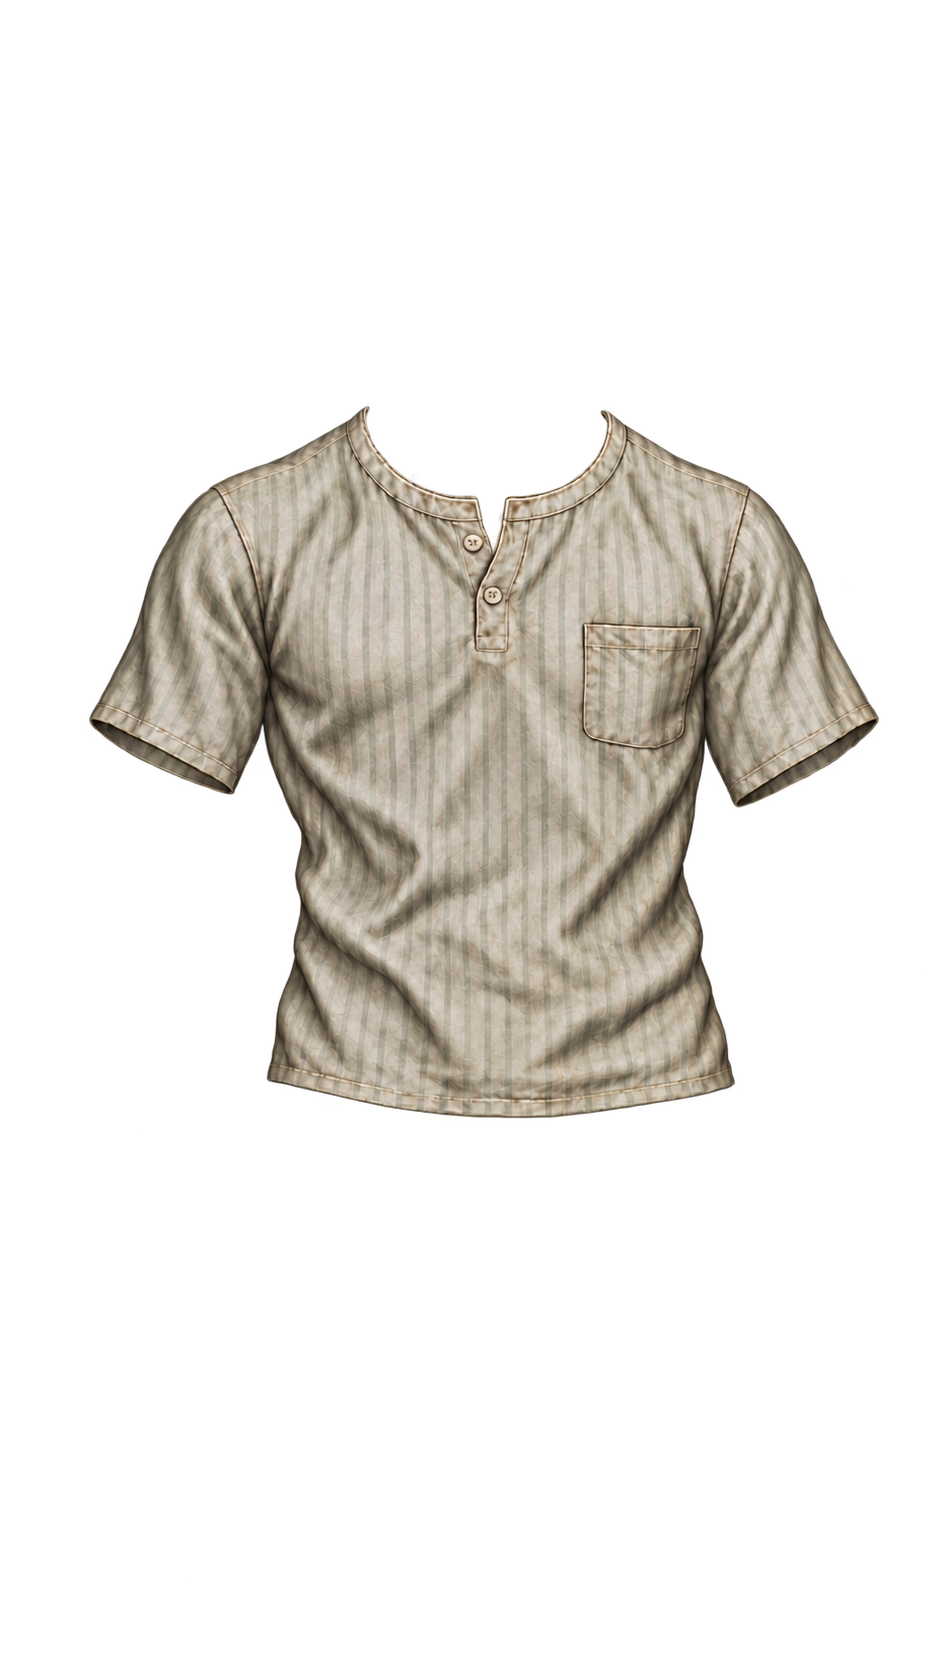
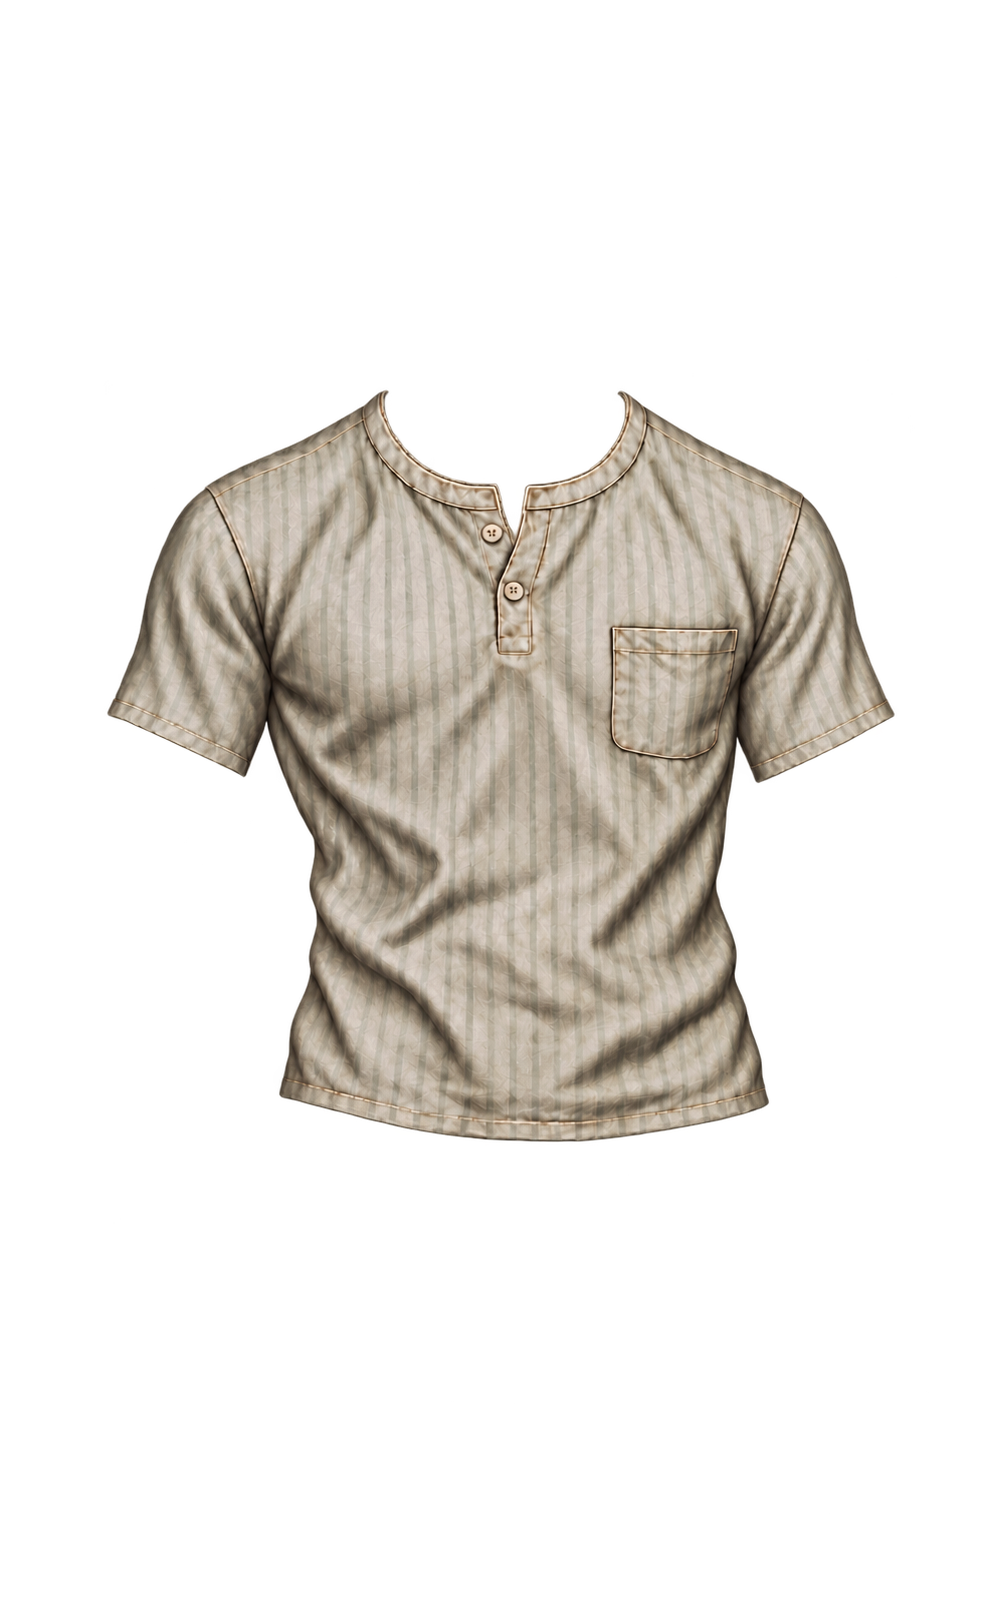
Fix male patient shirt shoulder coverage and remove rear sleeve rims from the front overlay

Changed region(s): [[0.0925, 0.2497, 0.9554, 0.7179]]

diff --git a/art/hospital-shirt.html b/art/hospital-shirt.html
@@ -20,7 +20,7 @@
     .body { display: block; position: absolute; inset: 0; width: 100%; height: 100%; object-fit: contain; }
     /* Only the new garment is registered. Approved bodies remain unchanged. */
     .shirt { position: absolute; object-fit: contain; }
-    [data-gender="male"] .shirt { left: calc(125 / 941 * 100%); top: calc(-24 / 1672 * 100%); width: calc(677.52 / 941 * 100%); height: calc(1203.12 / 1672 * 100%); }
+    [data-gender="male"] .shirt { left: calc(116 / 941 * 100%); top: calc(-16 / 1672 * 100%); width: calc(706.32 / 941 * 100%); height: calc(1153.44 / 1672 * 100%); }
     [data-gender="female"] .shirt { left: calc(145 / 941 * 100%); top: calc(-2 / 1672 * 100%); width: calc(639.88 / 941 * 100%); height: calc(1136.28 / 1672 * 100%); }
     .shadow { position: absolute; bottom: -.5%; left: 14%; width: 72%; height: 4.5%; background: radial-gradient(ellipse,#1b251e55,transparent 73%); }
     .note { font-size: 14px; color: #c9bba6; margin-top: 16px; }
@@ -41,7 +41,7 @@
         <div class="scene"><div class="frame">
           <span class="shadow" aria-hidden="true"></span>
           <img class="body" src="../base_male.png?v=0dec17c1" alt="Затверджена чоловіча модель">
-          <img class="shirt" src="../assets/wardrobe/drafts/hospital_shirt_male.png" alt="Чернетка чоловічої лікарняної сорочки">
+          <img class="shirt" src="../assets/wardrobe/drafts/hospital_shirt_male.png?v=f5b777c7" alt="Чернетка чоловічої лікарняної сорочки">
         </div></div>
       </article>
       <article data-gender="female">

diff --git a/tests/test_game.py b/tests/test_game.py
@@ -25,7 +25,7 @@ class IconAssetTests(unittest.TestCase):
         for gender in ['male','female']:
             with self.subTest(gender=gender),Image.open(ROOT/f'assets/wardrobe/drafts/hospital_shirt_{gender}.png') as image:
                 self.assertEqual(image.format,'PNG')
-                self.assertEqual(image.size,(941,1671))
+                self.assertEqual(image.size,(981,1602) if gender=='male' else (941,1671))
                 self.assertEqual(image.mode,'RGBA')
                 alpha=image.getchannel('A')
                 self.assertEqual(alpha.getextrema(),(0,255))
@@ -767,15 +767,30 @@ class GameTests(unittest.TestCase):
         for gender in ['male','female']:
             article=self.page.locator(f'[data-gender="{gender}"]')
             self.assertEqual(article.locator('.body').evaluate('e=>[e.naturalWidth,e.naturalHeight]'),[941,1672])
-            self.assertEqual(article.locator('.shirt').evaluate('e=>[e.naturalWidth,e.naturalHeight]'),[941,1671])
+            self.assertEqual(article.locator('.shirt').evaluate('e=>[e.naturalWidth,e.naturalHeight]'),[981,1602] if gender=='male' else [941,1671])
             frame=article.locator('.frame').bounding_box()
             self.assertAlmostEqual(frame['width']/frame['height'],941/1672,delta=.001)
             self.assertEqual(article.locator('.shirt').evaluate('e=>getComputedStyle(e).objectFit'),'contain')
+        # Canonical points that used to show bare shoulder or rear cuff fabric.
+        # Project through the actual DOM image boxes, not a copied CSS offset.
+        coverage=self.page.locator('[data-gender="male"]').evaluate('''article=>{
+            const frame=article.querySelector('.frame').getBoundingClientRect();
+            const layers=['body','shirt'].map(name=>{const image=article.querySelector('.'+name),canvas=document.createElement('canvas');canvas.width=image.naturalWidth;canvas.height=image.naturalHeight;const context=canvas.getContext('2d');context.drawImage(image,0,0);return{rect:image.getBoundingClientRect(),context,width:image.naturalWidth,height:image.naturalHeight}});
+            const read=([x,y])=>layers.map(layer=>{const px=Math.round((frame.x+x/941*frame.width-layer.rect.x)/layer.rect.width*layer.width),py=Math.round((frame.y+y/1672*frame.height-layer.rect.y)/layer.rect.height*layer.height);return px>=0&&py>=0&&px<layer.width&&py<layer.height?layer.context.getImageData(px,py,1,1).data[3]:0});
+            return{shoulder:[[632,310],[654,320],[670,330]].map(read),cuffs:[[242,524],[258,530],[277,539],[700,531],[675,545],[660,551]].map(read)};
+        }''')
+        for body,cloth in coverage['shoulder']:
+            self.assertGreaterEqual(body,200)
+            self.assertGreaterEqual(cloth,240)
+        for body,cloth in coverage['cuffs']:
+            self.assertGreaterEqual(body,200)
+            self.assertLessEqual(cloth,5)
         results=ROOT/'test-results';results.mkdir(exist_ok=True)
         self.page.set_viewport_size({'width':1280,'height':1000})
         for mode in ['patient','combat']:
             self.page.locator(f'button[data-mode="{mode}"]').click()
             self.assertEqual(self.page.locator('body').get_attribute('data-mode'),mode)
+            self.page.evaluate('''mode=>new Promise((resolve,reject)=>{const image=new Image();image.onload=resolve;image.onerror=()=>reject(new Error('Preview background failed'));image.src=mode==='combat'?'../wardrobe_background_v2.png?v=639ad612':'../wardrobe_background.png?v=d490c304';})''',mode)
             self.page.screenshot(path=str(results/f'patient-shirt-art-{mode}-1280x1000.png'))
             if os.getenv('GITHUB_ACTIONS')=='true':
                 for gender in ['male','female']:
@@ -785,6 +800,22 @@ class GameTests(unittest.TestCase):
         self.page.set_viewport_size({'width':390,'height':844})
         self.assertLessEqual(self.page.evaluate('document.documentElement.scrollWidth'),390)
         self.page.screenshot(path=str(results/'patient-shirt-art-phone.png'),full_page=True)
+        # Inspect actual source-scale shoulder/cuff geometry, not a tiny sprite.
+        self.page.set_viewport_size({'width':1280,'height':1200})
+        self.page.evaluate('''()=>{
+            document.querySelector('.models').style.gridTemplateColumns='941px';
+            document.querySelector('[data-gender="female"]').style.display='none';
+            document.querySelector('[data-gender="male"] .scene').style.height='1968px';
+            document.querySelector('[data-gender="male"] .frame').style.height='1672px';
+        }''')
+        for mode in ['patient','combat']:
+            self.page.locator(f'button[data-mode="{mode}"]').click()
+            frame=self.page.locator('[data-gender="male"] .frame').bounding_box()
+            clip={'x':frame['x']+140,'y':frame['y']+240,'width':660,'height':340}
+            self.page.screenshot(path=str(results/f'male-shirt-fit-detail-{mode}.png'),clip=clip)
+            if os.getenv('GITHUB_ACTIONS')=='true':
+                preview=self.page.screenshot(type='jpeg',quality=85,clip=clip)
+                print('PATIENT_SHIRT_ART_DETAIL:'+json.dumps({'name':f'male-shirt-fit-detail-{mode}','jpeg':base64.b64encode(preview).decode()},separators=(',',':')),flush=True)
 
     def test_trial_faces_are_not_loaded_or_selectable_after_old_save_migration(self):
         requests=[]

diff --git a/docs/patient-clothing-art.md b/docs/patient-clothing-art.md
@@ -4,7 +4,7 @@
 
 | Варіант | Ресурс | Фактичний розмір | Канали |
 | --- | --- | --- | --- |
-| Чоловік | `assets/wardrobe/drafts/hospital_shirt_male.png` | 941×1671 | RGBA, alpha 0–255 |
+| Чоловік | `assets/wardrobe/drafts/hospital_shirt_male.png` | 981×1602 | RGBA, alpha 0–255 |
 | Жінка | `assets/wardrobe/drafts/hospital_shirt_female.png` | 941×1671 | RGBA, alpha 0–255 |
 
 Оригінали генерації збережені окремо; у репозиторій скопійовано вибрані чернетки без редагування байтів. Затверджені бази 941×1672, фони, ігровий каталог, інвентар, характеристики та збереження не змінені. Чернетки не видаються гравцю як нові предмети.
@@ -15,11 +15,18 @@
 
 | Варіант | x | y | width | height |
 | --- | --- | --- | --- | --- |
-| Чоловік | 125 | -24 | 677.52 | 1203.12 |
+| Чоловік | 116 | -16 | 706.32 | 1153.44 |
 | Жінка | 145 | -2 | 639.88 | 1136.28 |
 
-Це попереднє припасування на сторінці арту, не нова логіка Paper Doll. Фактичні PNG генерації мають 1671 px висоти й ще не є фінальними шарами з нульовим розміщенням на полотні 941×1672. До підключення в ігровий каталог потрібні фіналізація реєстрації полотна та перевірка поєднання з майбутніми штанами, бронею й іншими речами. Повторно масштабувати базові моделі або пересувати колонки для цієї примірки не потрібно.
+Це попереднє припасування на сторінці арту, не нова логіка Paper Doll. Фактичні PNG генерації мають окремі розміри, вказані вище, й ще не є фінальними шарами з нульовим розміщенням на полотні 941×1672. До підключення в ігровий каталог потрібні фіналізація реєстрації полотна та перевірка поєднання з майбутніми штанами, бронею й іншими речами. Повторно масштабувати базові моделі або пересувати колонки для цієї примірки не потрібно.
 
 ## Наступні ресурси
 
 Після оцінки першого крою — лікарняні штани й взуття, потім шолом та БР-1. Для зброї зберігається потреба в окремому якісному хваті / передніх шарах рук. Сорочку й штани готувати незалежними шарами, щоб їх можна було комбінувати.
+
+
+## Чоловіче плече та рукави — виправлення першої примірки
+
+Чоловічий PNG перегенеровано як передню тканинну накладку під затверджену опущену позу рук. Край правого плеча з боку глядача закриває колишні оголені ділянки; форма коротких рукавів та нижні манжети виправлені. Темні внутрішні / задні овали рукавів прибрані з переднього PNG: ці частини не повинні малюватися поверх рук. Під передньою манжетою прозорість відкриває справжню руку базового PNG. Нові руки або копії шкіри в накладку не додані. Жіночий ресурс залишений без змін.
+
+Примірка застосовує пропорційне розміщення нового джерела 981×1602 у рамці 941×1672. URL чоловічої тканини містить версію Git blob для обходу старого кешу. Браузерний тест читає альфа-пікселі через фактичне DOM-розміщення: перевіряє покриття трьох контрольних точок правого плеча і прозорість колишніх задніх манжет над обома руками. Це перевірка перекриття тканини, а не лише того, що PNG завантажився.
